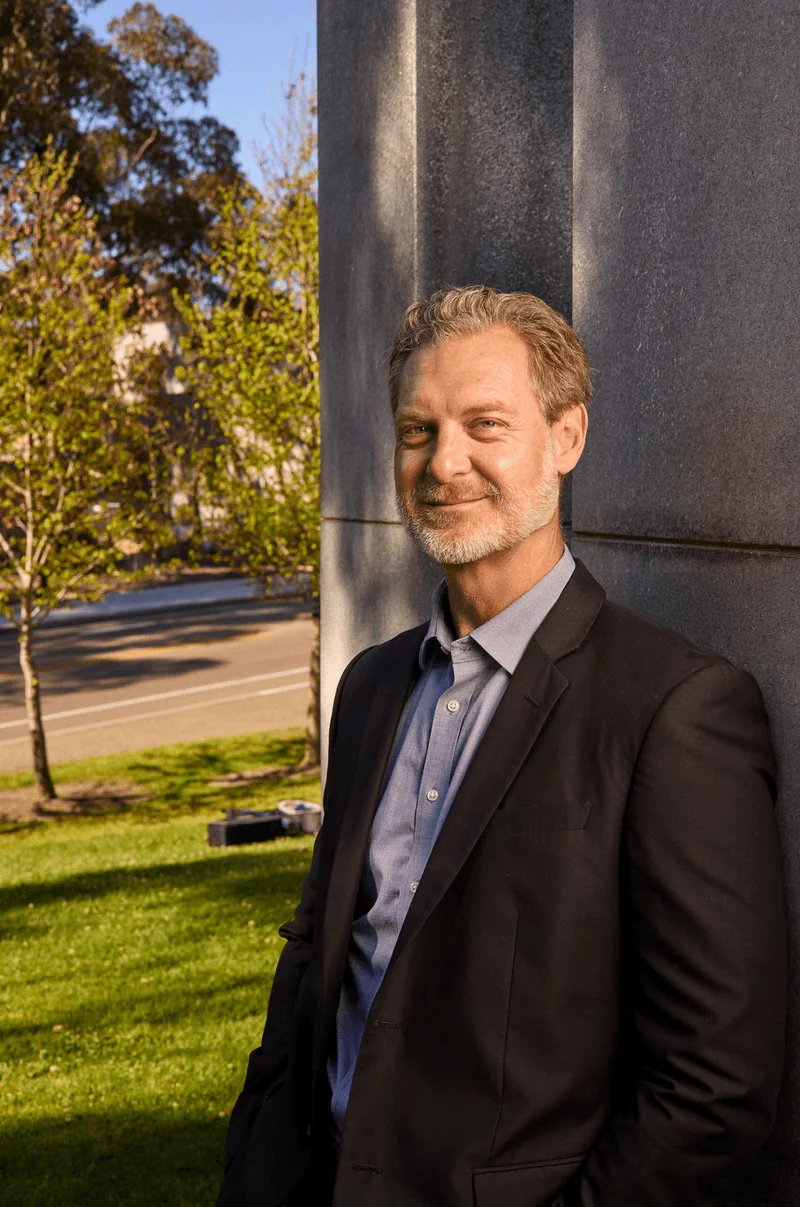
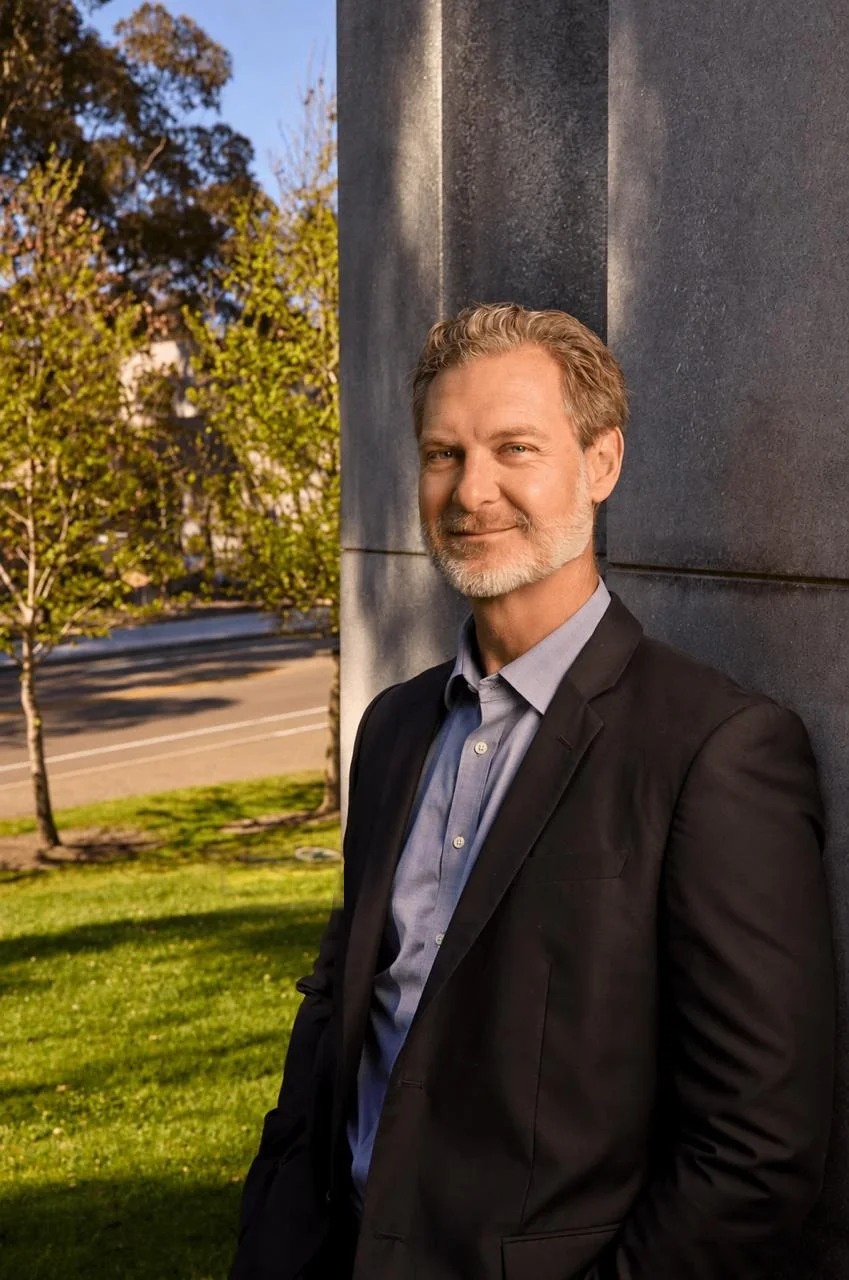
New portrait on About and Speaking pages
Golden-hour portrait replaces the seated About photo and the speaking-page
thumbnail + downloadable headshot. Background gear removed from the lawn
master before page crops were generated.

diff --git a/app/about/page.tsx b/app/about/page.tsx
@@ -16,9 +16,9 @@ export const metadata: Metadata = {
     images: [
       {
         url: "/brett-pollak-about.jpg",
-        width: 850,
+        width: 849,
         height: 1280,
-        alt: "Brett Pollak seated outdoors on the UC San Diego campus",
+        alt: "Brett Pollak on the UC San Diego campus at golden hour",
       },
     ],
   },
@@ -105,8 +105,8 @@ export default function About() {
             <div className="relative border border-line bg-paper-strong p-3 shadow-[12px_12px_0_rgba(201,119,18,0.16)]">
               <Image
                 src="/brett-pollak-about.jpg"
-                alt="Brett Pollak seated outdoors on the UC San Diego campus"
-                width={850}
+                alt="Brett Pollak on the UC San Diego campus at golden hour"
+                width={849}
                 height={1280}
                 className="w-full"
                 sizes="(min-width: 768px) 40vw, 100vw"

diff --git a/app/speaking/page.tsx b/app/speaking/page.tsx
@@ -215,7 +215,7 @@ export default function SpeakingPage() {
         <section id="speaker-resources" className="mb-14 editorial-panel p-6 md:p-8">
           <h2 className="mb-6 text-3xl font-medium">For event organizers</h2>
           <div className="grid gap-8 md:grid-cols-[10rem_1fr]">
-            <Image src="/brettpollak-headshot-lean.webp" alt="Brett Pollak" width={160} height={200} className="h-48 w-40 object-cover object-[center_25%]" />
+            <Image src="/brettpollak-headshot-lean.webp" alt="Brett Pollak" width={160} height={200} className="h-48 w-40 object-cover object-[center_22%]" />
             <div>
               <h3 className="mb-3 text-xl font-semibold">Short biography</h3>
               <p className="max-w-3xl text-body leading-7">{speakerBio}</p>

diff --git a/lib/seoDates.ts b/lib/seoDates.ts
@@ -31,9 +31,9 @@ export const staticPageDates: Record<string, string> = {
   "/ai-digest": "2026-09-08",
   "/ucsd-ai-news": "2026-09-08",
   "/work": "2026-09-05",
-  "/about": "2026-09-08",
+  "/about": "2026-09-10",  // new portrait
   "/tritongpt": "2026-09-09",
-  "/speaking": "2026-09-05",
+  "/speaking": "2026-09-10",  // new portrait
   "/products": "2026-09-10",
   "/products/cason-recruiting-crm": "2026-07-14",
   "/products/cason-scholarship-agent": "2026-07-25",
